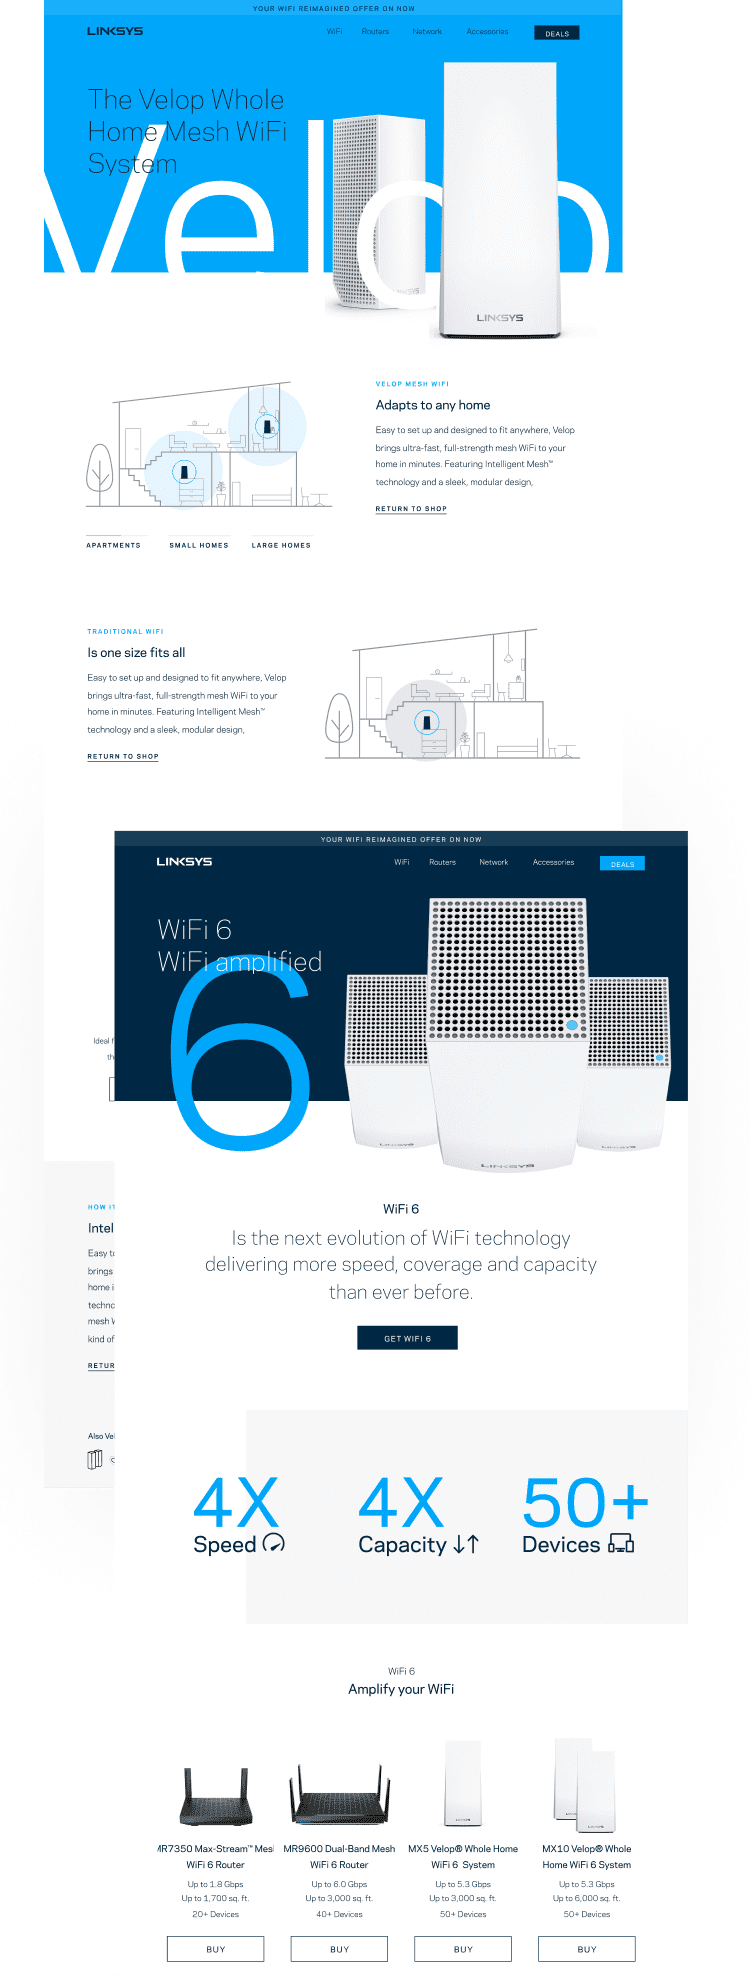
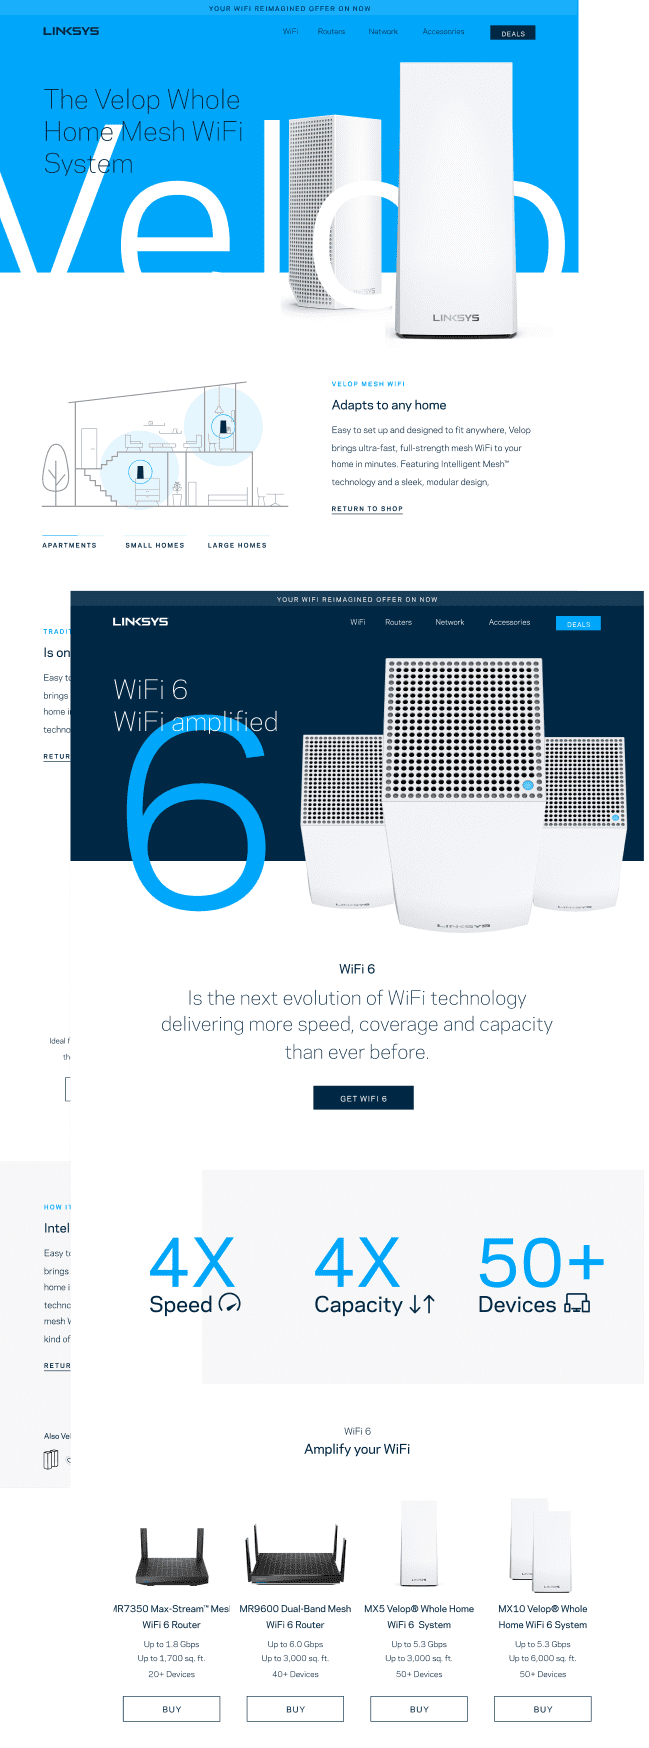
Fixed shadows, fixed alignment issues, mostly fixed sizes.

diff --git a/linksys-wifi/index.html b/linksys-wifi/index.html
@@ -161,7 +161,7 @@
      </div> <!-- container close -->
 
      </section>
-     <div class="connected-spacer"></div>
+     <!-- <div class="connected-spacer"></div> -->
      <!-- end of: part 1 -->
 
 
@@ -174,7 +174,7 @@
         <div class="container sect-2">
 
            <!-- case-image -->
-              <picture class="case-image shadow-transparent shadow">
+              <picture class="case-image shadow-transparent">
 
                  <source
                    media="(min-width: 721px)"
@@ -310,75 +310,73 @@
                    type="video/mp4"
                 />
               </video>
-
+             </div>
 
           </div> <!-- container close -->
-
-
-   <div class="separated-spacer"></div>
-
-
-    <!-- content-text -->
-    <div class="container">
-      <div class="content-text">
-          <p class="label">Design</p>
-          <h4 class="h4-sans">Components in action</h4>
-      </div>
-    </div> <!-- container close -->
-
-    <div class="connected-spacer"></div>
-
-    <div class="container-full">
-       <div id="vid-anim-small" class="content-video anim"></div>
-       <div id="vid-anim-medium" class="content-video anim"></div>
-       <div id="vid-anim-large" class="content-video anim"></div>
-
-       <div class="separated-spacer"></div>
-
-    </div> <!-- container close -->
-
-
-    <div class="container">
-
-
-       <!-- case-image -->
-         <picture class="case-image">
-
-            <source
-             media="(min-width: 1100px)"
-             srcset="../resources/images/lin-mobile_l@2x.jpg 2x,
-             ../resources/images/lin-mobile_l.jpg 1x"/>
-
-
-             <source
-              media="(min-width: 721px)"
-              srcset="../resources/images/lin-mobile_m@2x.jpg 2x,
-              ../resources/images/lin-mobile_m.jpg 1x"/>
-
-
-             <source
-              media="(max-width: 720px)"
-              srcset="../resources/images/lin-mobile_s@2x.jpg 2x,
-              ../resources/images/lin-mobile_s.jpg 1x"/>
-
-
-             <img src="../resources/images/lin-mobile_l.jpg" alt="mobile design" loading="lazy"/>
-         </picture>
 
 
          <div class="separated-spacer"></div>
 
 
-         <div class="content-video">
-          <video muted autoplay loop class="video-fill">
-            <source
-               src="../resources/video/lin-3d-tab.mp4"
-               type="video/mp4"
-            />
-          </video>
+          <!-- content-text -->
+          <div class="container">
+            <div class="content-text">
+                <p class="label">Components in action</p>
+            </div>
+          </div> <!-- container close -->
 
 
-      </div> <!-- container close -->
+          <!-- <div class="container-full"> -->
+             <div id="vid-anim-small" class="content-video anim"></div>
+             <div id="vid-anim-medium" class="content-video anim"></div>
+             <div id="vid-anim-large" class="content-video anim"></div>
+
+             <div class="separated-spacer"></div>
+
+         <!-- container close -->
+
+
+          <div class="container">
+
+
+             <!-- case-image -->
+               <picture class="case-image shadow-transparent">
+
+                  <source
+                   media="(min-width: 1100px)"
+                   srcset="../resources/images/lin-mobile_l@2x.png 2x,
+                   ../resources/images/lin-mobile_l.png 1x"/>
+
+
+                   <source
+                    media="(min-width: 721px)"
+                    srcset="../resources/images/lin-mobile_m@2x.png 2x,
+                    ../resources/images/lin-mobile_m.png 1x"/>
+
+
+                   <source
+                    media="(max-width: 720px)"
+                    srcset="../resources/images/lin-mobile_s@2x.png 2x,
+                    ../resources/images/lin-mobile_s.png 1x"/>
+
+
+                   <img src="../resources/images/lin-mobile_l.png" alt="mobile design" loading="lazy"/>
+               </picture>
+
+
+               <div class="separated-spacer"></div>
+
+
+               <div class="content-video">
+                <video muted autoplay loop class="video-fill">
+                  <source
+                     src="../resources/video/lin-3d-tab.mp4"
+                     type="video/mp4"
+                  />
+                </video>
+
+
+            </div> <!-- container close -->
 
 
 

diff --git a/resources/css/components/sections/overrides-lin.css b/resources/css/components/sections/overrides-lin.css
@@ -17,9 +17,14 @@
    margin-bottom: 40px;
 }
 
+#case-study-section.lin.second img:first-of-type {
+   padding-top: 20px;
+}
+
+
 #case-study-section.lin.second {
    background-image: url('../../../../resources/images/lin-white-top-ux_s.svg'), url('../../../../resources/images/lin-white-bottom-ux_s.svg');
-   background-position: top, bottom;
+    background-position: 0 -2px, bottom;  /*the first listed property contains co-ordinates 0 from the left and -2 from the top*/
    background-size: 100%;
    background-repeat: no-repeat;
 }
@@ -29,7 +34,13 @@
 margin-bottom: 24px;
 }
 
+#case-study-section.lin.second img:first-of-type {
+   padding-top: 40px;
+}
 
+#case-study-section.lin.third .content-text:first-of-type {
+   margin-bottom: 40px;
+}
 
 
 
@@ -60,7 +71,7 @@ margin-bottom: 24px;
    }
 
    #case-study-section.lin.second img:first-of-type {
-      padding-top: 40px;
+      padding-top: 80px;
    }
 }
 
@@ -72,6 +83,10 @@ margin-bottom: 24px;
    #case-study-section.lin.first .container-flex img {
       min-width: 300px;
       margin-left: 100px;
+   }
+
+   #case-study-section.lin.third .content-text:first-of-type {
+      margin-bottom: 60px;
    }
 }
 

diff --git a/resources/css/variables.css b/resources/css/variables.css
@@ -165,9 +165,18 @@ section.dark-mode a {
   filter: drop-shadow(0px 20px 30px #EEE);
 }
 
+/* region small */
 .shadow-transparent {
-   filter: drop-shadow(0px 4px 90px rgba(0, 0, 0, 0.18));
+   filter: drop-shadow(0px 4px 30px rgba(0, 0, 0, 0.10));
 }
+
+/* region medium */
+@media (min-width: 720px) {
+   .shadow-transparent {
+      filter: drop-shadow(0px 4px 40px rgba(0, 0, 0, 0.18));
+   }
+}
+
 
 
    /* Keyboard navigation */
